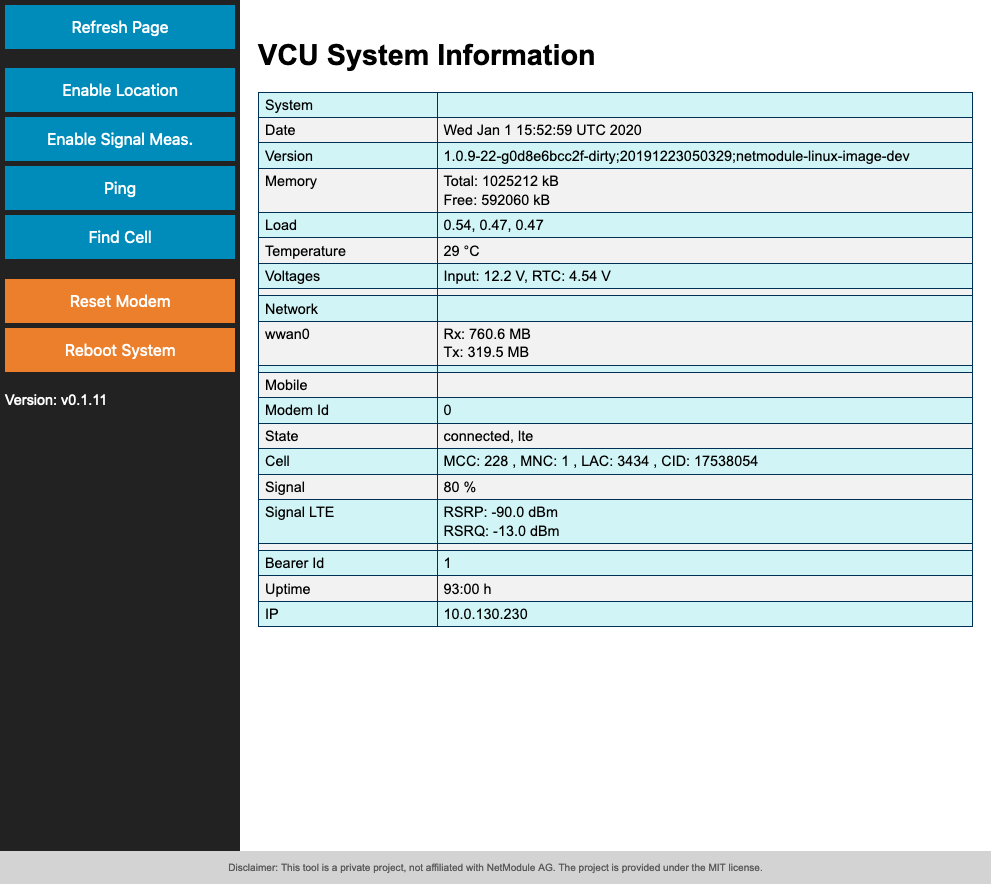
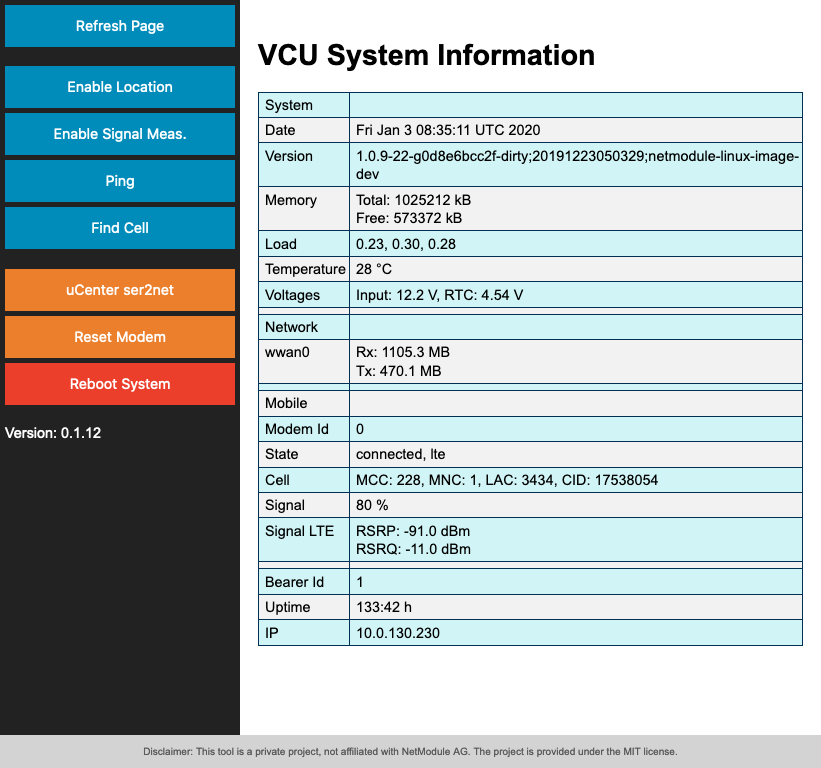
Update documentation

diff --git a/README.md b/README.md
@@ -8,14 +8,19 @@
 
 ### Introduction
 
-A minimal Web user interface for VCU Pro. It displays important status information and allows basic maintenance actions. Written in python, based on bottle webserver.
+A minimal Web user interface for the VCU Pro automotive gateway. It displays important status information and allows basic maintenance actions. Written in python, based on bottle webserver.
 
 
 ### Features
 
 * Display of most important system information
-* Restart of GSM modem
-
+  * System date/time, load, temperature
+  * Mobile link information (registration state, signal strength, bearer information)
+* Determine GSM cell location, including geographic position (uses OpenCellId and OpenStreetMap)
+* Execute test ping over mobile network
+* Create TCP service for u-Center GNSS tool
+* Restart GSM modem
+* Restart system (not yet implemented)
 
 
 ### Preview
@@ -40,15 +45,16 @@ A minimal Web user interface for VCU Pro. It displays important status informati
 #### Run from Python
 
 ```python
-import vcuui
+from vcuui.server import run_server
 
-vcuui.run_server(port=888)
+run_server(port=80)
 ```
 
 
 #### Installation as systemd service
 
-Create the following service file ```vcu-ui.service``` in ```/usr/lib/systemd/system/vcu-ui.service```.
+Create the following service file ```vcu-ui.service``` in ```/usr/lib/systemd/system/vcu-ui.service```. The service file is also available on ![Github](https://github.com/renestraub/vcu-ui/blob/master/vcu-ui.service)
+
 
 ```
 [Unit]
@@ -67,6 +73,7 @@ RestartSec=10
 WantedBy=multi-user.target
 ```
 
+
 Manage the service with the following systemd commands.
 
 ```bash
@@ -76,7 +83,6 @@ systemctl enable vcu-ui     # Enable service for next startup
 systemctl start vcu-ui      # Start service right now
 ```
 
-### Tips
 
-* Check ...
+
 
